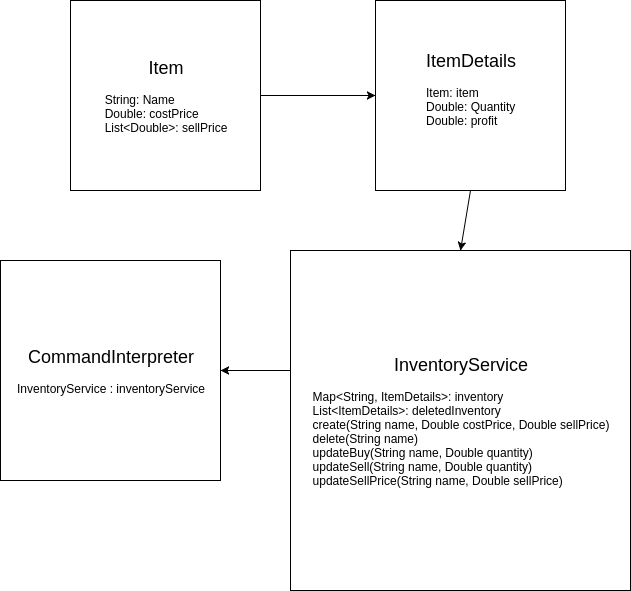
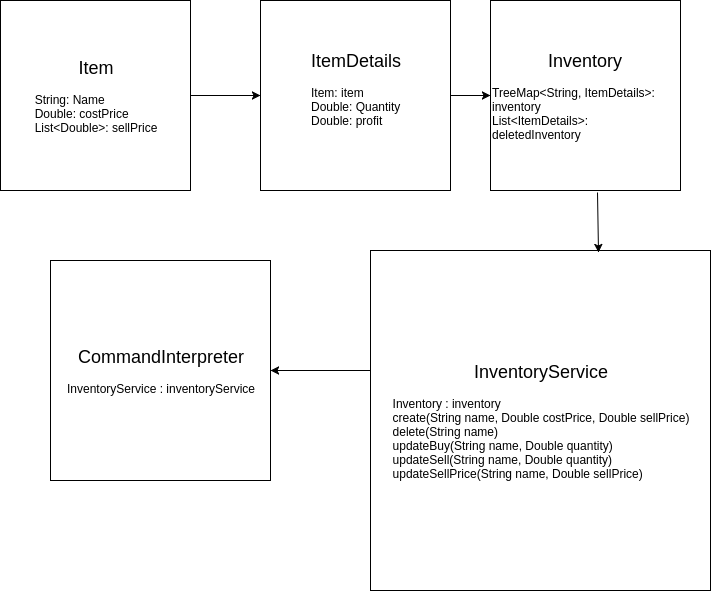
Refactored inventory

diff --git a/src/main/java/com/jugdar/inventory/service/InventoryService.java b/src/main/java/com/jugdar/inventory/service/InventoryService.java
@@ -1,48 +1,41 @@
 package com.jugdar.inventory.service;
 
 import java.util.ArrayList;
-import java.util.List;
-import java.util.Map;
-import java.util.TreeMap;
-
+import com.jugdar.inventory.model.Inventory;
 import com.jugdar.inventory.model.Item;
 import com.jugdar.inventory.model.ItemDetails;
 
 
 /**
- * Service represent inventory and provides inventory operations 
+ * Service represent inventory operations 
  */
-public class InventoryService implements Inventory {
+public class InventoryService implements InventoryOperations {
 	
-	// Holds items in inventory. Map adds easy add/retrieve items. Tree map for sorted order of items 
-	Map<String, ItemDetails> inventory = new TreeMap<String, ItemDetails>(); 
-	// Holds list of items deleted from inventory
-	List<ItemDetails> deletedInventory = new ArrayList<ItemDetails>();
-	
+	Inventory inventory = new Inventory();
 
 	@Override
 	public void create(String name, Double costPrice, Double sellPrice) {
 		Item item = new Item(name, costPrice, sellPrice);
 		ItemDetails itemDetails = new ItemDetails(item, 0.0, 0.0);
-		inventory.put(name, itemDetails);
+		inventory.getInventory().put(name, itemDetails);
 	}
 
 	@Override
 	public void delete(String name) {
 		//Remove item from inventory and add to deleted items list
-		ItemDetails itemDetails = inventory.get(name);
-		inventory.remove(name);
-		deletedInventory.add(itemDetails);
+		ItemDetails itemDetails = inventory.getInventory().get(name);
+		inventory.getInventory().remove(name);
+		inventory.getDeletedInventory().add(itemDetails);
 	}
 
 	@Override
 	public void updateBuy(String name, Double quantity) {
-		ItemDetails itemDetails = inventory.get(name);
+		ItemDetails itemDetails = inventory.getInventory().get(name);
 		
 		//Check item has been created before updating inventory
 		if (itemDetails != null) {
 			itemDetails.setQuantity(quantity);
-			inventory.put(name, itemDetails);
+			inventory.getInventory().put(name, itemDetails);
 		}
 		else {
 			//TODO: Throw ExceptionS
@@ -52,7 +45,7 @@ public class InventoryService implements Inventory {
 
 	@Override
 	public void updateSell(String name, Double quantity) {
-		ItemDetails itemDetails = inventory.get(name);
+		ItemDetails itemDetails = inventory.getInventory().get(name);
 		
 		//Check item has been created before updating inventory
 		if (itemDetails != null) {
@@ -64,7 +57,7 @@ public class InventoryService implements Inventory {
 				//Calculate profit on sell 
 				itemDetails.addProfits(quantity);
 				
-				inventory.put(name, itemDetails);
+				inventory.getInventory().put(name, itemDetails);
 			}
 			else {
 				//Todo: Throw exception not enough quantity
@@ -81,7 +74,7 @@ public class InventoryService implements Inventory {
 	@Override
 	public void updateSellPrice(String name, Double sellPrice) {
 		
-		ItemDetails itemDetails = inventory.get(name);
+		ItemDetails itemDetails = inventory.getInventory().get(name);
 		
 		if (itemDetails != null) {
 			
@@ -100,13 +93,13 @@ public class InventoryService implements Inventory {
 	public Double getTotalProfit() {
 		
 		// Sum profits made on each item
-		Double totalFirstProfit = inventory.values()
+		Double totalFirstProfit = inventory.getInventory().values()
 				.stream()
 				.mapToDouble(o -> o.getProfit())
 				.sum();
 		
 		// Sum cost price of deleted items
-		Double deletedItemCostPrice = deletedInventory.stream()
+		Double deletedItemCostPrice = inventory.getDeletedInventory().stream()
 						.mapToDouble(o -> o.getItem().getCostPrice() * o.getQuantity())
 						.sum();
 							
@@ -120,7 +113,7 @@ public class InventoryService implements Inventory {
 	 */
 	public Double getTotalValue() {
 		
-		Double totalValue = inventory.values()
+		Double totalValue = inventory.getInventory().values()
 						.stream()
 						.mapToDouble(o -> o.getItem().getCostPrice() * o.getQuantity())
 						.sum();
@@ -130,7 +123,7 @@ public class InventoryService implements Inventory {
 	}
 	
 	public ItemDetails findItem(String name) {
-		return inventory.get(name);
+		return inventory.getInventory().get(name);
 	}
 
 	@Override
@@ -151,7 +144,7 @@ public class InventoryService implements Inventory {
 		System.out.printf( "%10s %n", "Inventory Report");
 		System.out.printf( "%10s %9s %7s %12s %6s %n", "Item Name", "Bought At", "Sold At", "AvailableQty", "Value");
 		System.out.printf( "%10s %9s %7s %12s %6s %n", "---------", "---------", "-------", "------------", "-----");
-		inventory.values()
+		inventory.getInventory().values()
 				.stream()
 				.forEach(o -> {
 					System.out.printf( "%10s %9s %7s %12s %6s %n", o.getItem().getName(), o.getItem().getCostPrice(), o.getItem().getSellPrice(), o.getQuantity(), (o.getItem().getCostPrice() *  o.getQuantity()));
@@ -162,13 +155,13 @@ public class InventoryService implements Inventory {
 		System.out.printf( "%10s %2f  %n", "Profit since previous report", this.getTotalProfit());
 		
 		
-		//After report has been printed, clear out profits and deleted inventory
+		//After report has been printed, clear out profits and deleted inventory.getInventory()
 		//This will reset profits and deleted inventory for next report
-		inventory.values()
+		inventory.getInventory().values()
 		.stream()
 		.forEach(o -> o.clearProfits());
 		
-		deletedInventory = new ArrayList<ItemDetails>();
+		inventory.setDeletedInventory(new ArrayList<ItemDetails>());
 		
 	}
 

diff --git a/src/main/java/com/jugdar/inventory/model/Inventory.java b/src/main/java/com/jugdar/inventory/model/Inventory.java
@@ -1,0 +1,32 @@
+package com.jugdar.inventory.model;
+
+import java.util.ArrayList;
+import java.util.List;
+import java.util.Map;
+import java.util.TreeMap;
+
+/**
+ * Represents inventory, number of items and their cost price, sell price, quantity
+ */
+public class Inventory {
+
+	// Holds items in inventory. Map adds easy add/retrieve items. Tree map for sorted order of items 
+	Map<String, ItemDetails> inventory = new TreeMap<String, ItemDetails>(); 
+	// Holds list of items deleted from inventory
+	List<ItemDetails> deletedInventory = new ArrayList<ItemDetails>();
+	public Map<String, ItemDetails> getInventory() {
+		return inventory;
+	}
+	public void setInventory(Map<String, ItemDetails> inventory) {
+		this.inventory = inventory;
+	}
+	public List<ItemDetails> getDeletedInventory() {
+		return deletedInventory;
+	}
+	public void setDeletedInventory(List<ItemDetails> deletedInventory) {
+		this.deletedInventory = deletedInventory;
+	}
+	
+	
+		
+}

diff --git a/src/main/java/com/jugdar/inventory/service/InventoryOperations.java b/src/main/java/com/jugdar/inventory/service/InventoryOperations.java
@@ -1,0 +1,13 @@
+package com.jugdar.inventory.service;
+
+
+
+public interface InventoryOperations {
+
+	void create (String name, Double costPrice, Double sellPrice);
+	void delete (String name);
+	void updateBuy(String name, Double quantity);
+	void updateSell(String name, Double quantity);
+	void report();
+	void updateSellPrice(String name, Double sellPrice);
+}
